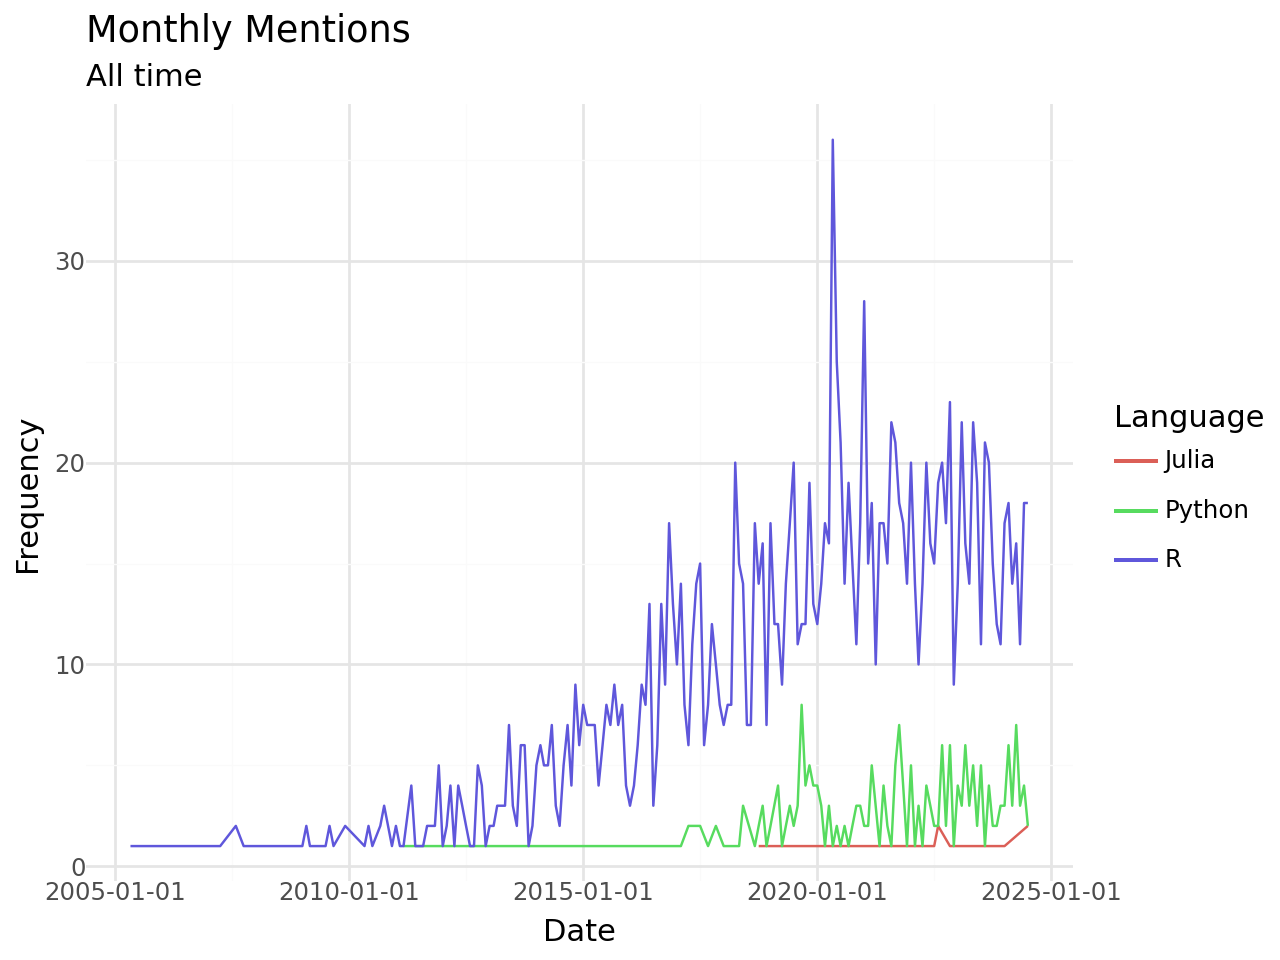
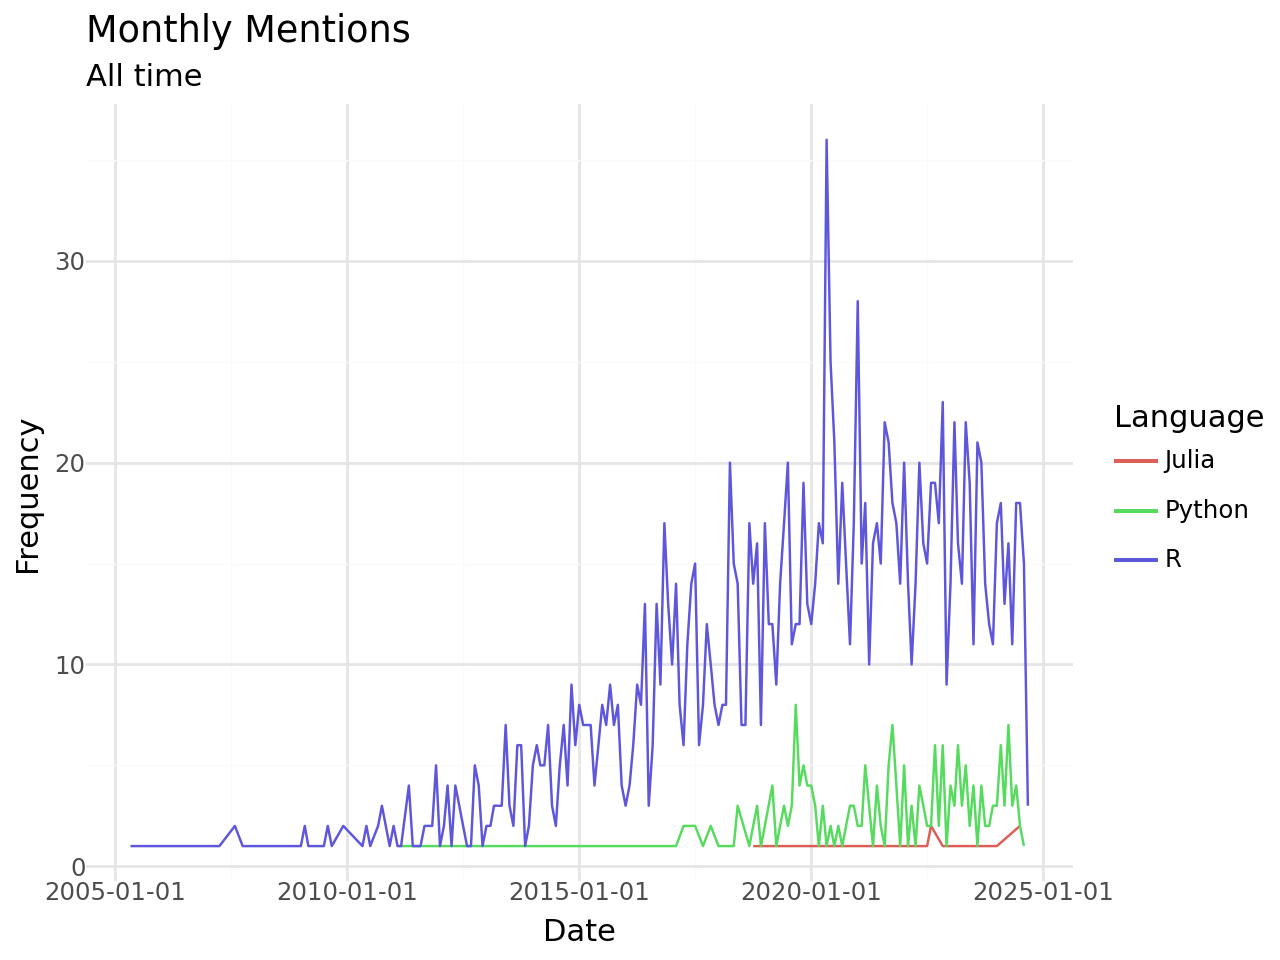
refreshed analysis

Changed region(s): [[0.2188, 0.125, 0.8125, 0.9375], [0.75, 0.9062, 0.875, 0.9375], [0.4062, 0.9062, 0.5, 0.9375]]

diff --git a/docs/index.html b/docs/index.html
@@ -149,6 +149,7 @@ ul.task-list li input[type="checkbox"] {
 </header>
 
 
+<p>Published on Sep 05, 2024</p>
 <section id="about" class="level1">
 <h1>About</h1>
 <p>Howdy</p>
@@ -165,7 +166,7 @@ ul.task-list li input[type="checkbox"] {
 <li>R:
 <ul>
 <li>search terms: “r package”</li>
-<li>1,736 results</li>
+<li>1,750 results</li>
 <li>first mentioned in 2005</li>
 </ul></li>
 <li>Python:
@@ -185,7 +186,7 @@ ul.task-list li input[type="checkbox"] {
 </section>
 <section id="results-by-month" class="level1">
 <h1>Results by Month</h1>
-<div id="67037e41" class="cell" data-execution_count="12">
+<div id="29926344" class="cell" data-execution_count="12">
 <div class="cell-output cell-output-display">
 <div>
 <figure class="figure">
@@ -194,7 +195,7 @@ ul.task-list li input[type="checkbox"] {
 </div>
 </div>
 </div>
-<div id="51ab9afc" class="cell" data-execution_count="13">
+<div id="692297a7" class="cell" data-execution_count="13">
 <div class="cell-output cell-output-display">
 <div>
 <figure class="figure">
